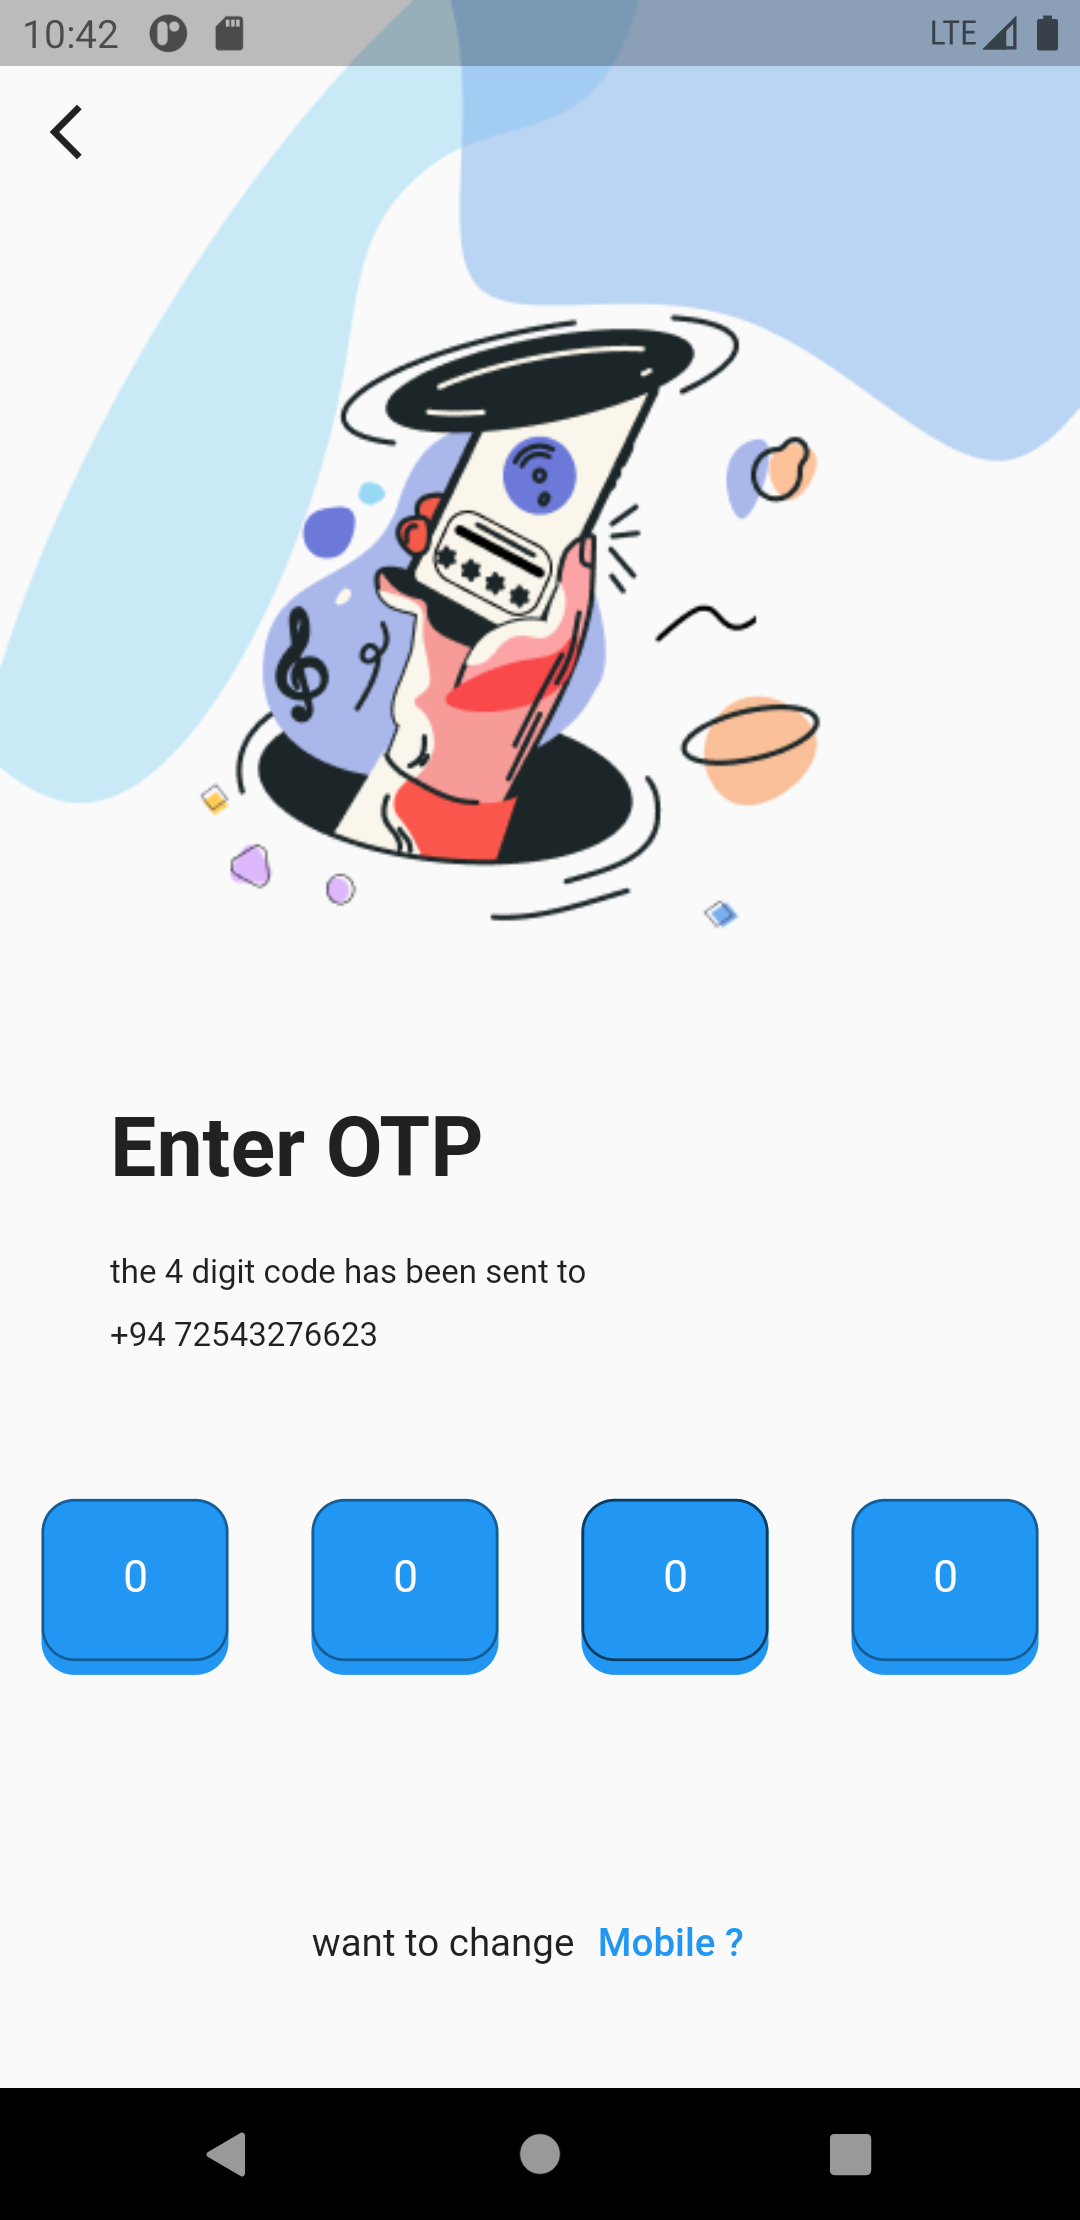
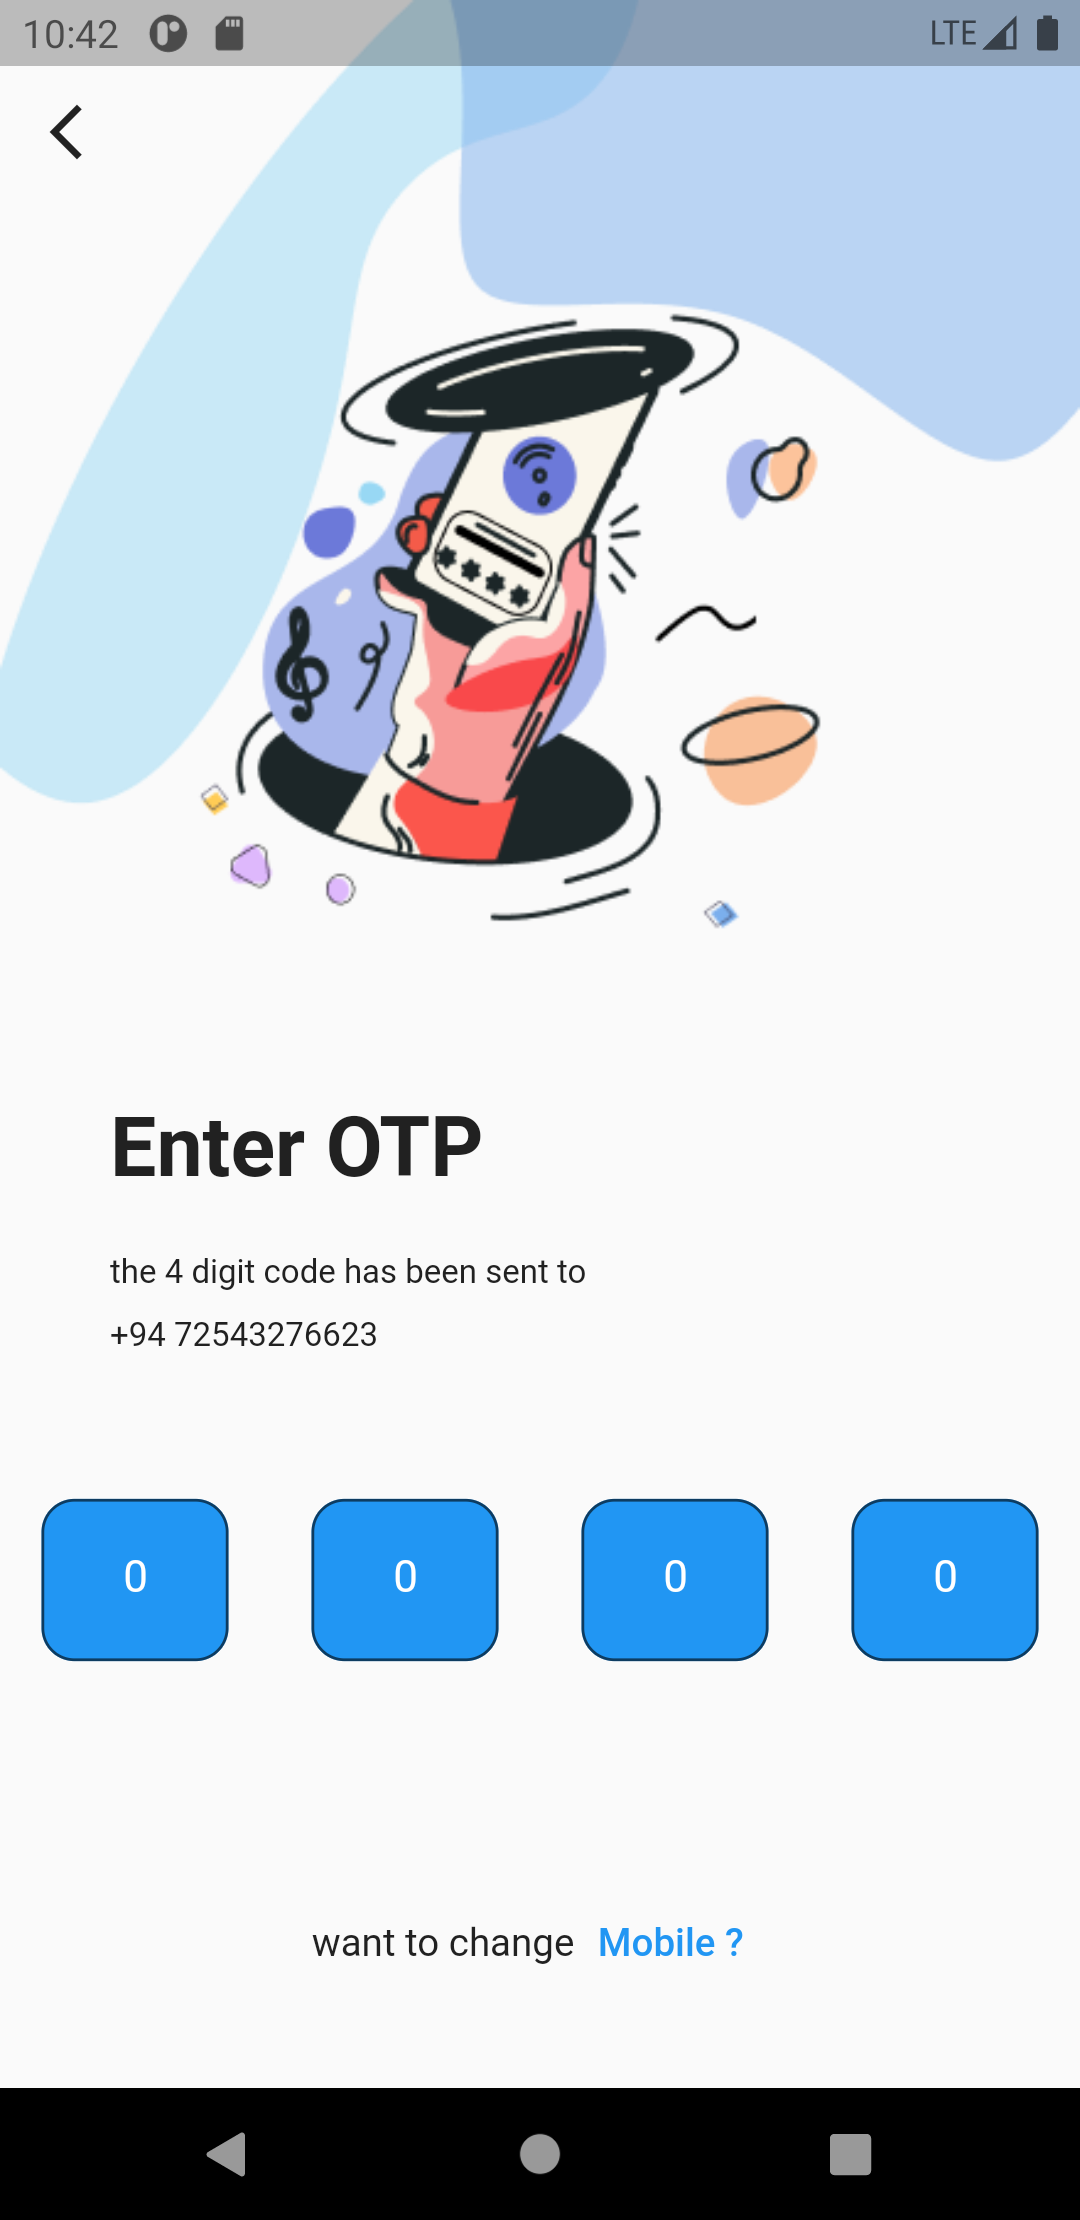
screenshots

diff --git a/lib/Pages/otp_page.dart b/lib/Pages/otp_page.dart
@@ -55,112 +55,91 @@ class _OtpPageState extends State<OtpPage> {
                 mainAxisAlignment: MainAxisAlignment.spaceAround,
                 children: [
                   SizedBox(height: 64, width:  68,
-                    child: Container(
-                      decoration: BoxDecoration(
-                          color: Colors.blue,
-                          borderRadius: BorderRadius.circular(12)
-                      ),
-                      child: TextFormField(
-                        onChanged: (value){
-                          if(value.length == 1){
-                            FocusScope.of(context).nextFocus();
-                          }
-                        },
-                        onSaved: (pin1){},
-                        decoration: InputDecoration(
-                          fillColor: Colors.blue,
-                          border: OutlineInputBorder(
-                              borderRadius: BorderRadius.circular(12),
-                              borderSide: const BorderSide(color: Colors.blue)),
-                          hintText: '0',
-                          hintStyle: const TextStyle(color: Colors.white),
-                        ),
-                        textAlign: TextAlign.center,
-                        inputFormatters: [LengthLimitingTextInputFormatter(1), FilteringTextInputFormatter.digitsOnly],
-                        keyboardType: TextInputType.number,
-                      ),
-                    ),
-                  ),
-                  SizedBox(height: 64, width:  68,
-                    child: Container(
-                      decoration: BoxDecoration(
-                          color: Colors.blue,
-                          borderRadius: BorderRadius.circular(12)
-                      ),
-                      child: TextFormField(
-                        onChanged: (value){
-                          if(value.length == 1){
-                            FocusScope.of(context).nextFocus();
-                          }
-                        },
-                        onSaved: (pin1){},
-                        decoration: InputDecoration(
-                          fillColor: Colors.blue,
-                          border: OutlineInputBorder(
-                              borderRadius: BorderRadius.circular(12),
-                              borderSide: const BorderSide(color: Colors.blue)),
-                          hintText: '0',
-                          hintStyle: const TextStyle(color: Colors.white),
-                        ),
-                        textAlign: TextAlign.center,
-                        inputFormatters: [LengthLimitingTextInputFormatter(1), FilteringTextInputFormatter.digitsOnly],
-                        keyboardType: TextInputType.number,
-                      ),
-                    ),
-                  ),
-                  SizedBox(height: 64, width:  68,
-                    child: Container(
-                      decoration: BoxDecoration(
-                          color: Colors.blue,
-                          borderRadius: BorderRadius.circular(12)
-                      ),
-                      child: TextFormField(
-                        onChanged: (value){
-                          if(value.length == 1){
-                            FocusScope.of(context).nextFocus();
-                          }
-                        },
-                        onSaved: (pin1){},
-                        decoration: InputDecoration(
+                    child: TextFormField(
+                      onChanged: (value){
+                        if(value.length == 1){
+                          FocusScope.of(context).nextFocus();
+                        }
+                      },
+                      onSaved: (pin1){},
+                      decoration: InputDecoration(
                         filled: true,
-                          fillColor: Colors.blue,
-                          border: OutlineInputBorder(
-                              borderRadius: BorderRadius.circular(12),
-                              borderSide: const BorderSide(color: Colors.blue)),
-                          hintText: '0',
-                          hintStyle: const TextStyle(color: Colors.white),
-                        ),
-                        textAlign: TextAlign.center,
-                        inputFormatters: [LengthLimitingTextInputFormatter(1), FilteringTextInputFormatter.digitsOnly],
-                        keyboardType: TextInputType.number,
+                        fillColor: Colors.blue,
+                        border: OutlineInputBorder(
+                            borderRadius: BorderRadius.circular(12),
+                            borderSide: const BorderSide(color: Colors.blue)),
+                        hintText: '0',
+                        hintStyle: const TextStyle(color: Colors.white),
                       ),
+                      textAlign: TextAlign.center,
+                      inputFormatters: [LengthLimitingTextInputFormatter(1), FilteringTextInputFormatter.digitsOnly],
+                      keyboardType: TextInputType.number,
                     ),
                   ),
                   SizedBox(height: 64, width:  68,
-                    child: Container(
-                      decoration: BoxDecoration(
-                          color: Colors.blue,
-                          borderRadius: BorderRadius.circular(12)
+                    child: TextFormField(
+                      onChanged: (value){
+                        if(value.length == 1){
+                          FocusScope.of(context).nextFocus();
+                        }
+                      },
+                      onSaved: (pin1){},
+                      decoration: InputDecoration(
+                        filled: true,
+                        fillColor: Colors.blue,
+                        border: OutlineInputBorder(
+                            borderRadius: BorderRadius.circular(12),
+                            borderSide: const BorderSide(color: Colors.blue)),
+                        hintText: '0',
+                        hintStyle: const TextStyle(color: Colors.white),
                       ),
-                      child: TextFormField(
-                        onChanged: (value){
-                          if(value.length == 1){
-                            FocusScope.of(context).nextFocus();
-                          }
-                        },
-                        onSaved: (pin1){},
-                        decoration: InputDecoration(
-                          fillColor: Colors.blue,
-                          border: OutlineInputBorder(
-                              borderRadius: BorderRadius.circular(12),
-                              borderSide: const BorderSide(color: Colors.blue)),
-                          hintText: '0',
-                          hintStyle: const TextStyle(color: Colors.white),
-                        ),
-                        textAlign: TextAlign.center,
-                        inputFormatters: [LengthLimitingTextInputFormatter(1), FilteringTextInputFormatter.digitsOnly],
-                        keyboardType: TextInputType.number,
+                      textAlign: TextAlign.center,
+                      inputFormatters: [LengthLimitingTextInputFormatter(1), FilteringTextInputFormatter.digitsOnly],
+                      keyboardType: TextInputType.number,
+                    ),
+                  ),
+                  SizedBox(height: 64, width:  68,
+                    child: TextFormField(
+                      onChanged: (value){
+                        if(value.length == 1){
+                          FocusScope.of(context).nextFocus();
+                        }
+                      },
+                      onSaved: (pin1){},
+                      decoration: InputDecoration(
+                      filled: true,
+                        fillColor: Colors.blue,
+                        border: OutlineInputBorder(
+                            borderRadius: BorderRadius.circular(12),
+                            borderSide: const BorderSide(color: Colors.blue)),
+                        hintText: '0',
+                        hintStyle: const TextStyle(color: Colors.white),
                       ),
+                      textAlign: TextAlign.center,
+                      inputFormatters: [LengthLimitingTextInputFormatter(1), FilteringTextInputFormatter.digitsOnly],
+                      keyboardType: TextInputType.number,
+                    ),
+                  ),
+                  SizedBox(height: 64, width:  68,
+                    child: TextFormField(
+                      onChanged: (value){
+                        if(value.length == 1){
+                          FocusScope.of(context).nextFocus();
+                        }
+                      },
+                      onSaved: (pin1){},
+                      decoration: InputDecoration(
+                        filled: true,
+                        fillColor: Colors.blue,
+                        border: OutlineInputBorder(
+                            borderRadius: BorderRadius.circular(12),
+                            borderSide: const BorderSide(color: Colors.blue)),
+                        hintText: '0',
+                        hintStyle: const TextStyle(color: Colors.white),
+                      ),
+                      textAlign: TextAlign.center,
+                      inputFormatters: [LengthLimitingTextInputFormatter(1), FilteringTextInputFormatter.digitsOnly],
+                      keyboardType: TextInputType.number,
                     ),
                   ),
 
